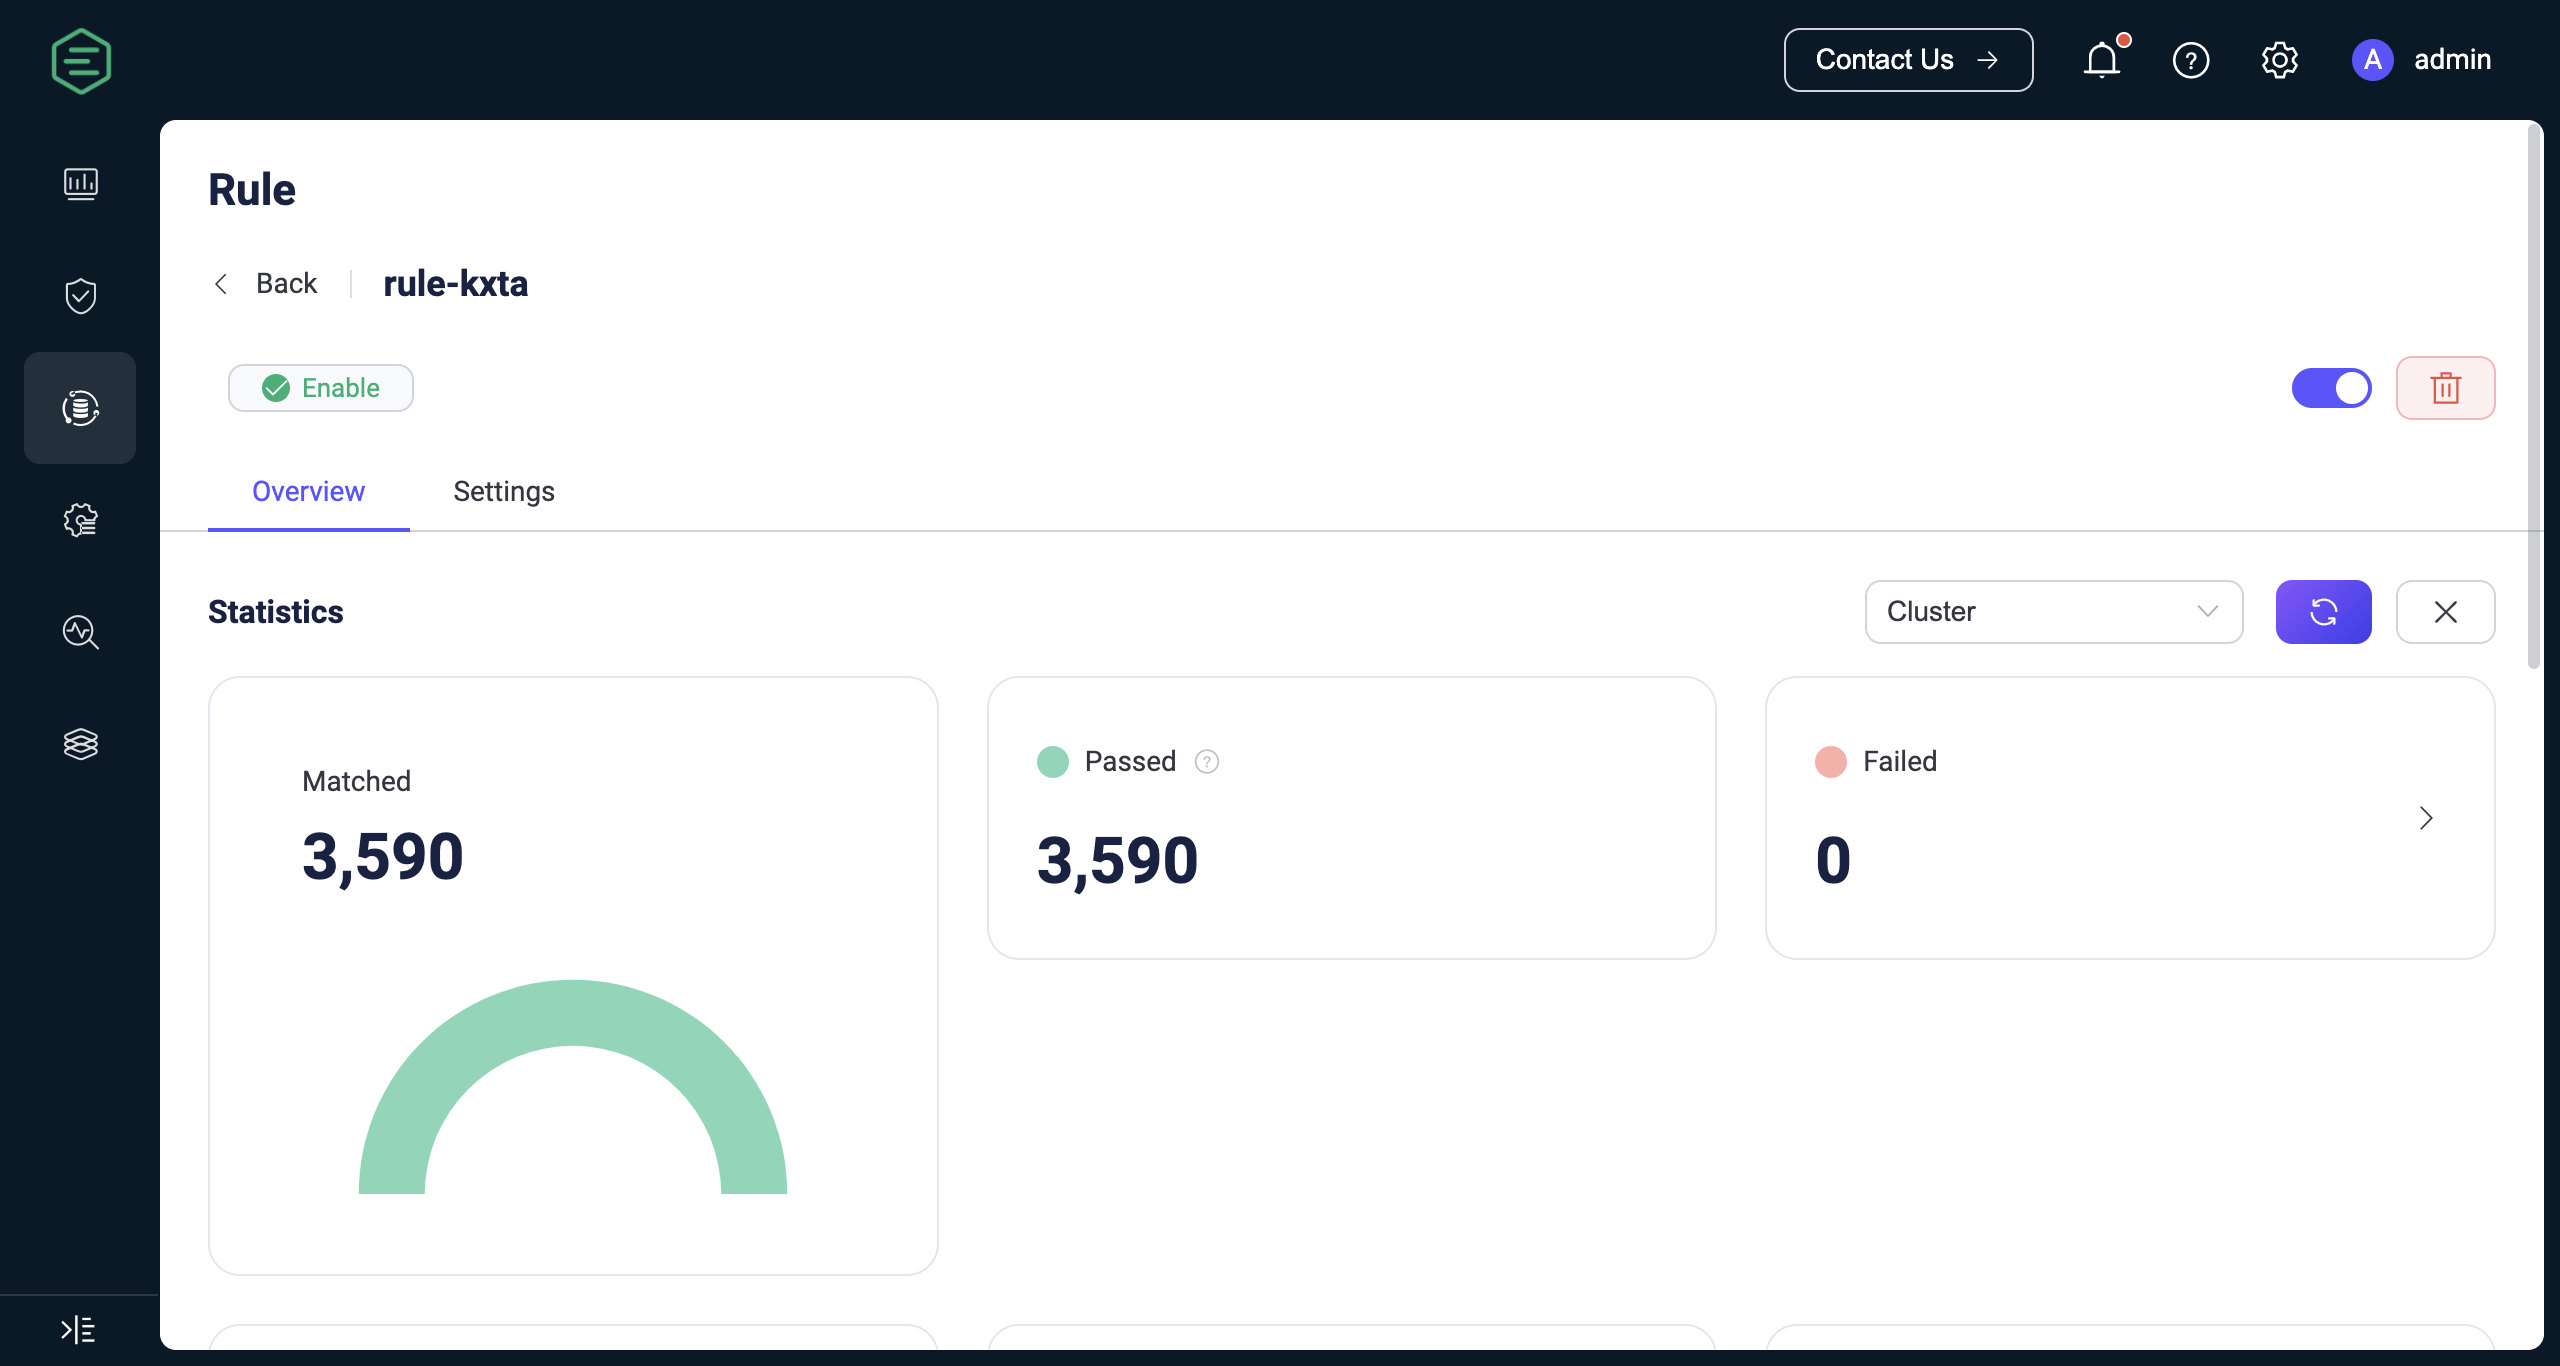
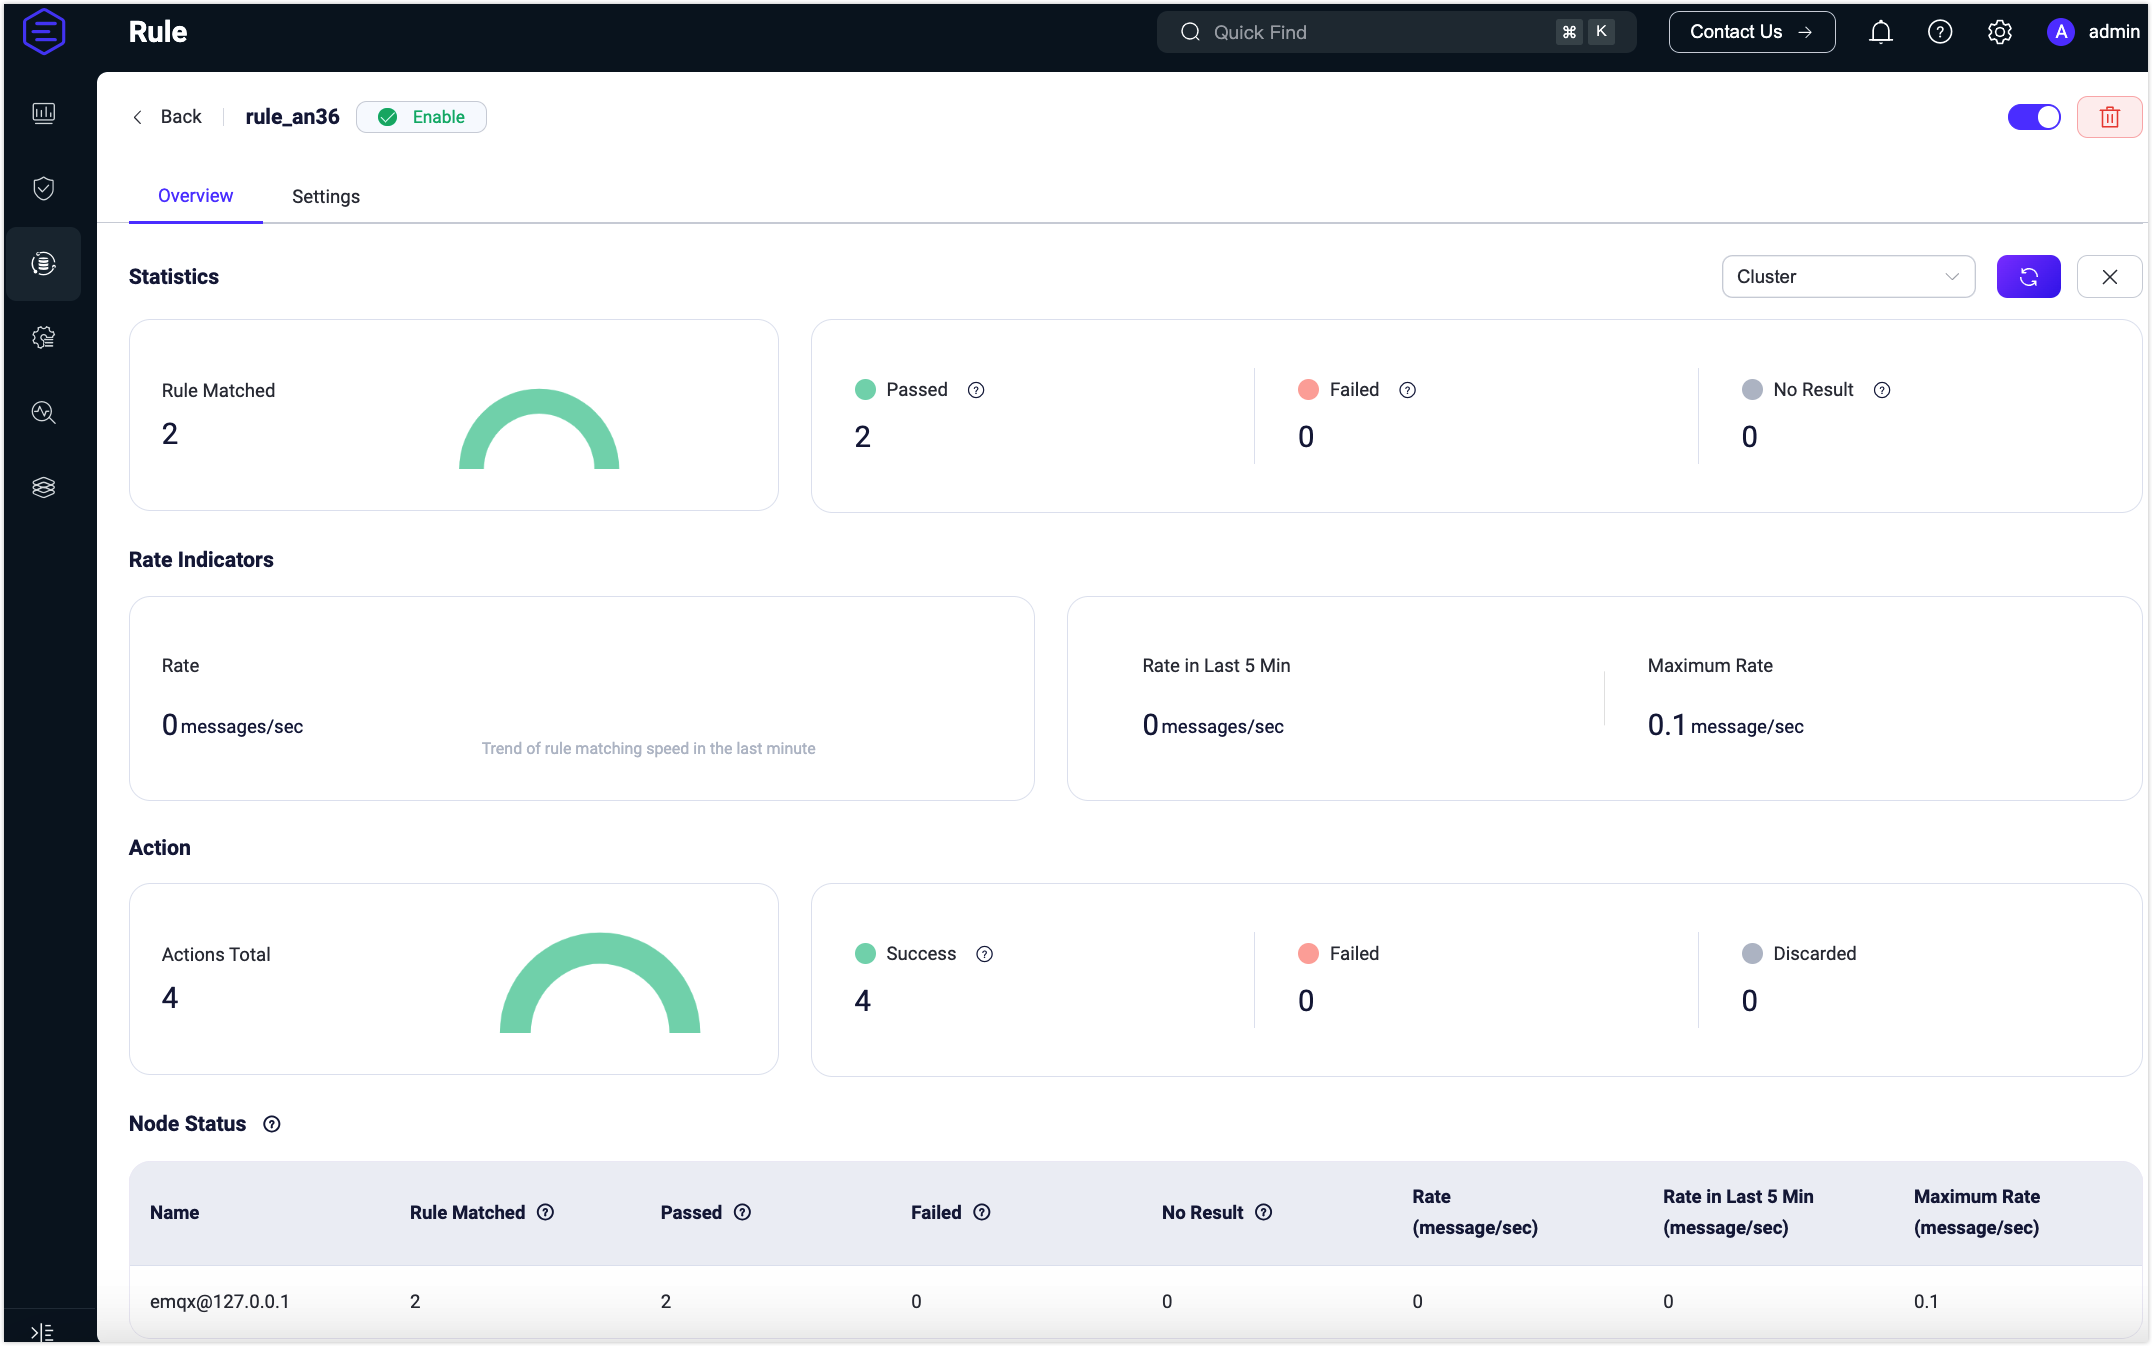
update(rule engine): Update Create Rules to reflect changes in 5.8 and 5.8.1

diff --git a/en_US/data-integration/rule-get-started.md b/en_US/data-integration/rule-get-started.md
@@ -44,11 +44,13 @@ Next, you can click the **Add Action** button on the right side of the **Create 
 
 On the **Create Rule** page, click the **Add Action** button on the right side to bring up the **Add Action** page. You can select either of the three types of actions from the **Action** drop-down list: Republish, Console Output, and Forwarding with Data Bridge.
 
+<img src="./assets/add_action.png" alt="add_action" style="zoom:67%;" />
+
 ### Add Republish Action
 
 This section demonstrates how to add an action to republish the original messages received from the topic `t/#` to another topic `a/1`. 
 
-Select **Republish** from the drop-down menu under **Action**, and configure the following settings before clicking the **Add** button to confirm:
+On the **Add Action** page, select **Republish** from the **Type of Action** drop-down menu, and configure the following settings before clicking the **Add** button to confirm:
 
 - **Topic**: Set the target topic, "a/1" in this example;
 
@@ -63,16 +65,12 @@ Select **Republish** from the drop-down menu under **Action**, and configure the
   <!-- - **User Properties**: You can add custom key-value pairs to configure the [user properties](https://www.emqx.com/en/blog/mqtt5-user-properties) of the republished message, which represent custom message metadata. -->
 
   - **Payload Format Indicator**: Enter a value to indicate whether the payload of the message is in a specific format. When the value is set to `false`, the message is considered as undetermined bytes. When set to `true`, it indicates that the payload within the message body is UTF-8 encoded character data. This will help MQTT clients or MQTT servers parse message content more efficiently without the need for explicit formatting or type identification for the message body.
-
   - **Message Expiry Interval**: Enter a value (in seconds) to specify a time interval after which the message should expire and be considered invalid if it hasn't been delivered to the intended recipient.
   - **Content Type**: Enter a value to specify the type or format of the payload content within the republished message (MIME type), for example, `text/plain` represents a text file, `audio/aac` represents an audio file, and `application/json` signifies an application message in JSON format.
-  
   - **Response Topic**: Enter the specific MQTT topic to which you want the response message to be published. For example, if you want responses to be sent to a topic named "response/my_device," you would enter: `response/my_device`.
-  
   - **Correlation Data**: Enter a unique identifier or data to correlate a response message with the original request message. For example, you could enter a unique request identifier, a transaction ID, or any other information that is meaningful in your application context.
-  
 
-![action-republish](./assets/action-republish.png)
+- **Direct Dispatch**: Toggle the switch to enable or disable direct dispatch. When enabled, the message will be directly dispatched to subscribers to prevent unintended behavior, such as triggering additional rules or causing recursive activation of the same rule. 
 
 On the **Create Rule** page, click the **Create** button at the bottom to complete the rule creation. This rule will be added as a new entry on the **Rule** page. 
 
@@ -91,7 +89,7 @@ The console output action is used to view the output results of the rule. The re
 - When EMQX is launched in either `console` or `foreground` mode, with `foreground` being the default mode in Docker environments, its output is directed to the console.
 - If EMQX is started via systemd, the output is captured and stored by the journal system. This can be examined using the `journalctl` command.
 
-The output will be in the format below
+The output will be in the format below:
 
 ```bash
 [rule action] rule_id1
@@ -155,7 +153,7 @@ Each entry in the list displays basic information, including the rule ID, associ
 
 You can also view rules in the [Flow Designer](../flow-designer/introduction.md) by navigating to **Integration** -> **Flow Designer**. Rules created on the **Rules** page and those created through the Flow Designer are fully interoperable.
 
-To view the execution and action statistics for a rule, click the rule ID on **Rule** page or the rule name on the **Flows** page.
+To view the rule statistics and action execution information for a rule, click the rule ID on **Rule** page or the rule name on the **Flows** page.
 
 ![view_rules_flows](./assets/view_rules_flows.png)
 
@@ -172,6 +170,10 @@ If you update the rule action or redefine the data source, the statistics listed
 The **Actions (Sink)** and **Sources** tabs on the **Rule** page display all created actions (sinks) and sources. You can view essential details, such as names, connection statuses, associated rules, and enable statuses. Clicking the number of associated rules will take you to a list of rules containing that specific action (sink) or source, making it easier to manage your data integration settings.
 
 You can reconnect or modify the settings of an action (sink) or source through the **Action** column. By clicking **More**, you can delete the action (sink) or source, or create a new rule using it.
+
+To view the statistics and rate indicators for an action, click the name of the action.
+
+![action_statistics](./assets/action_statistics.png)
 
 ### Search Rules
 
